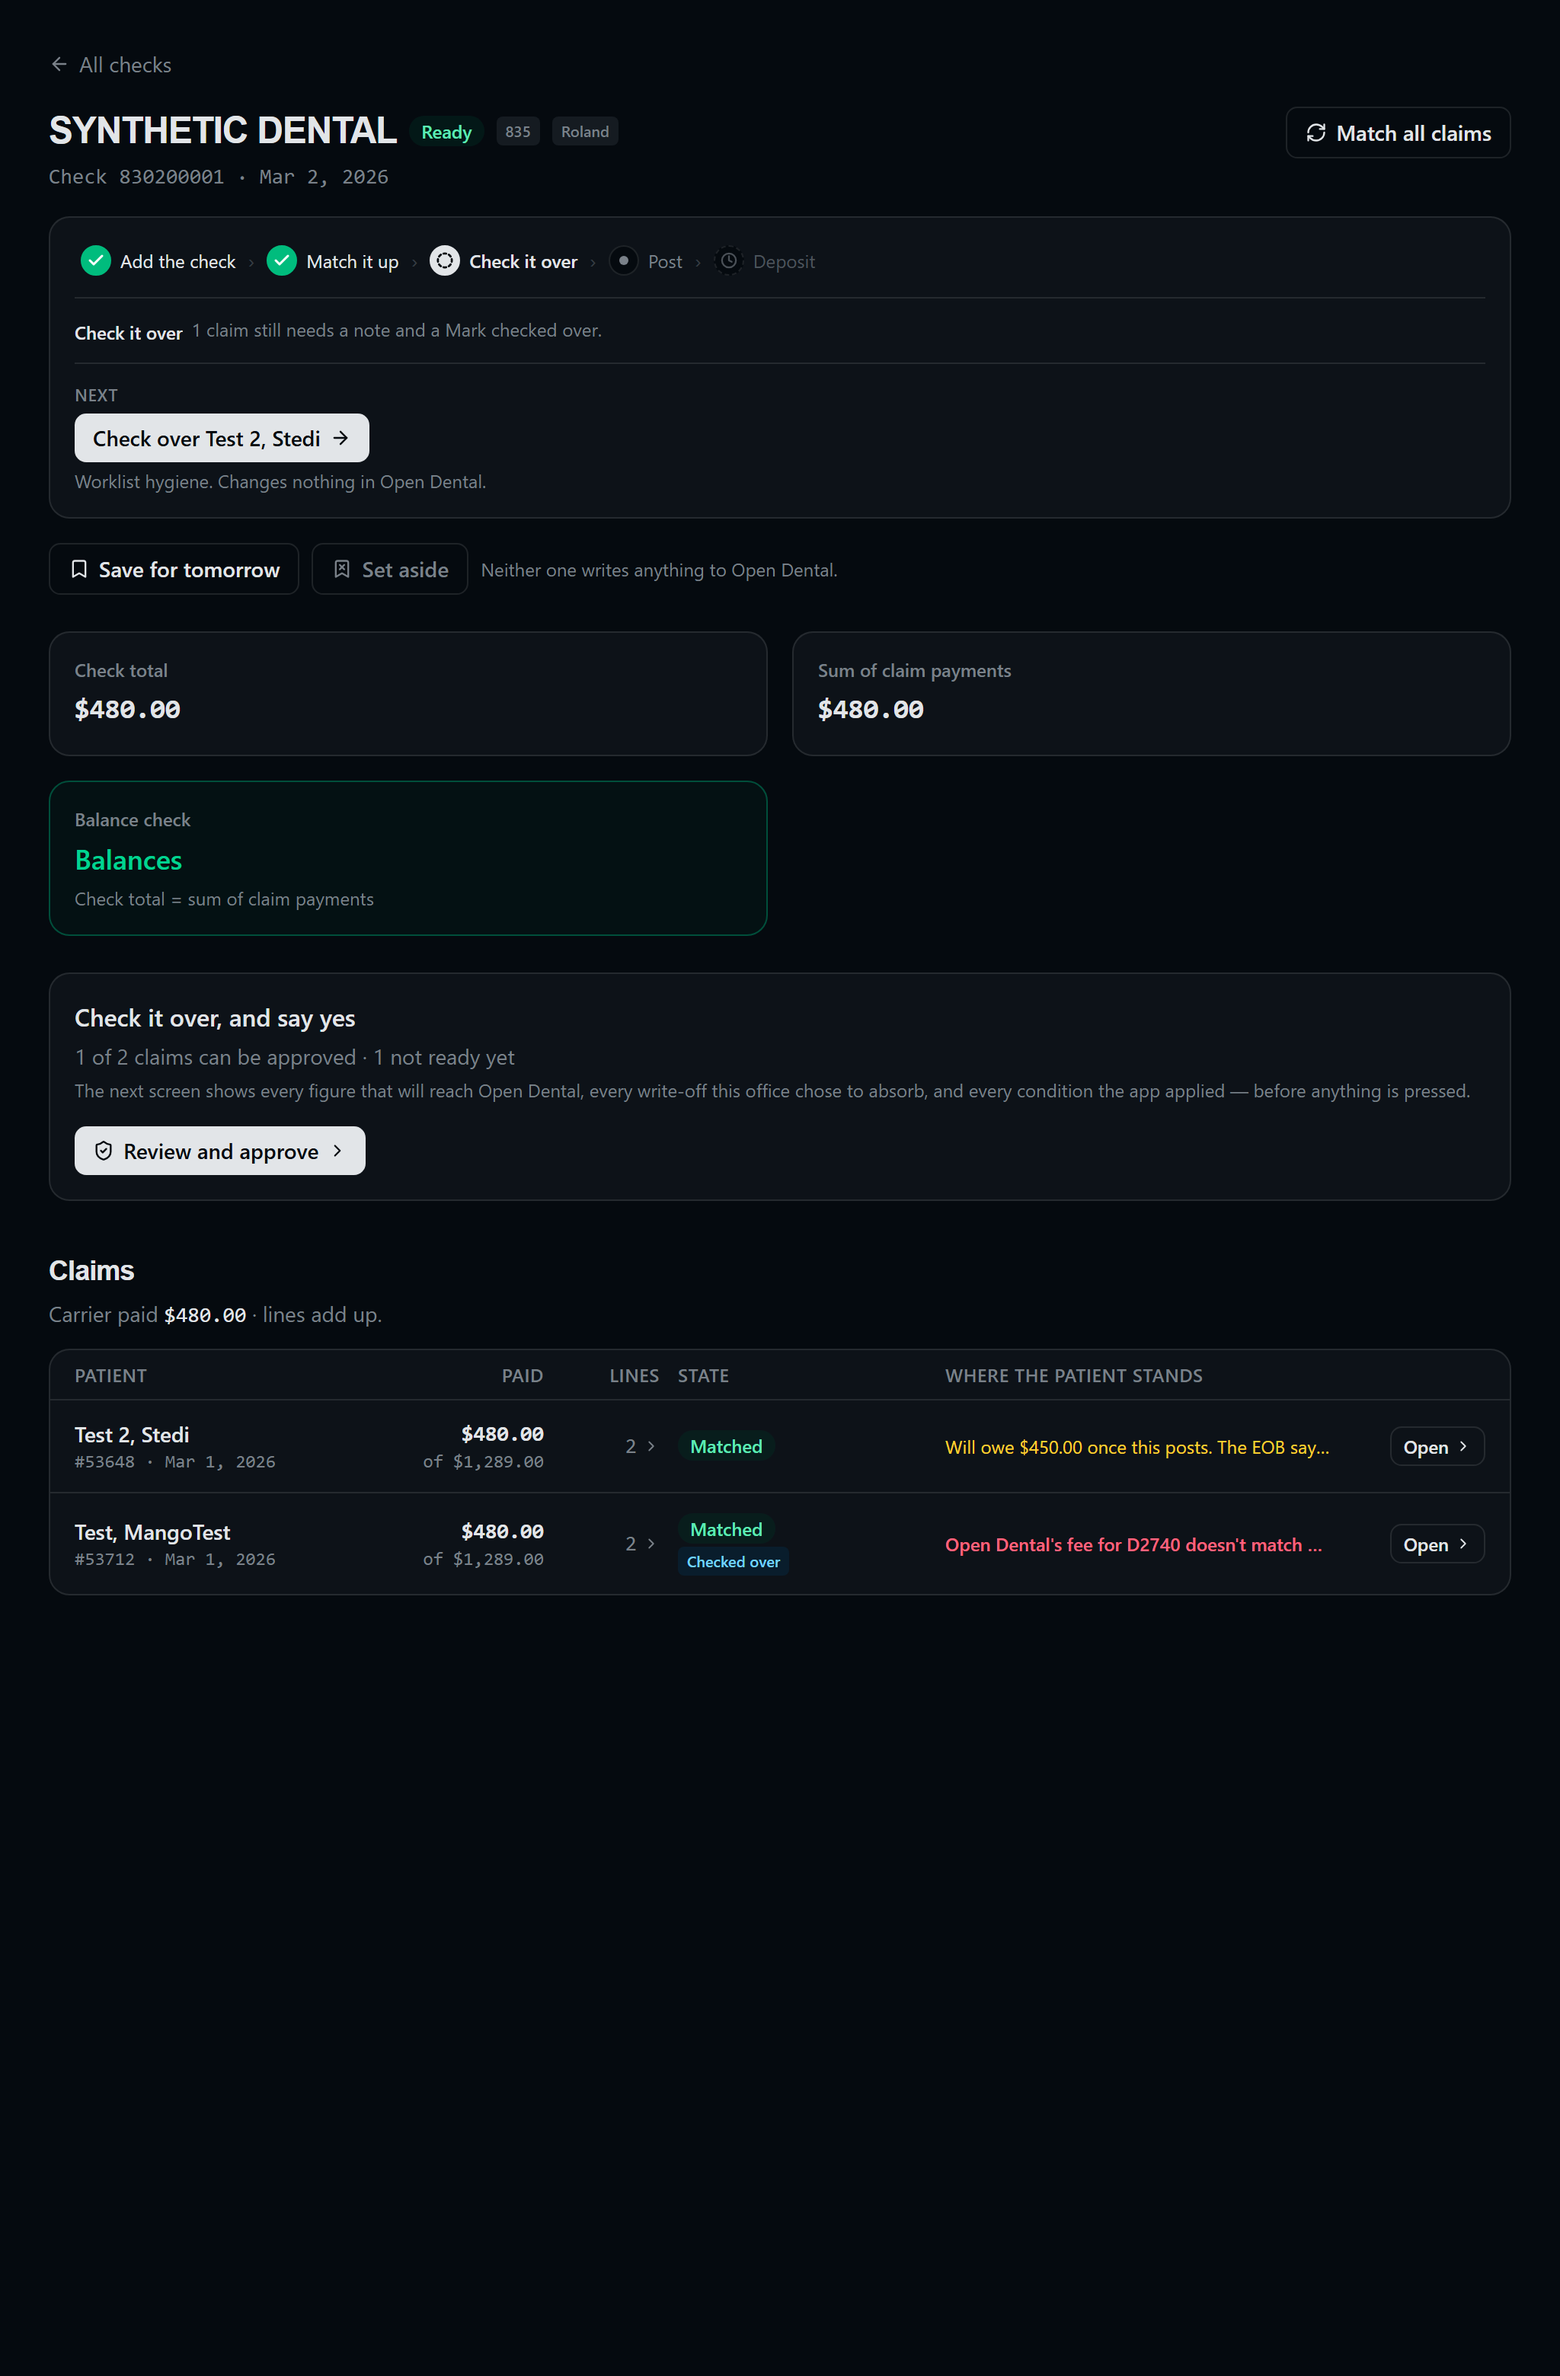
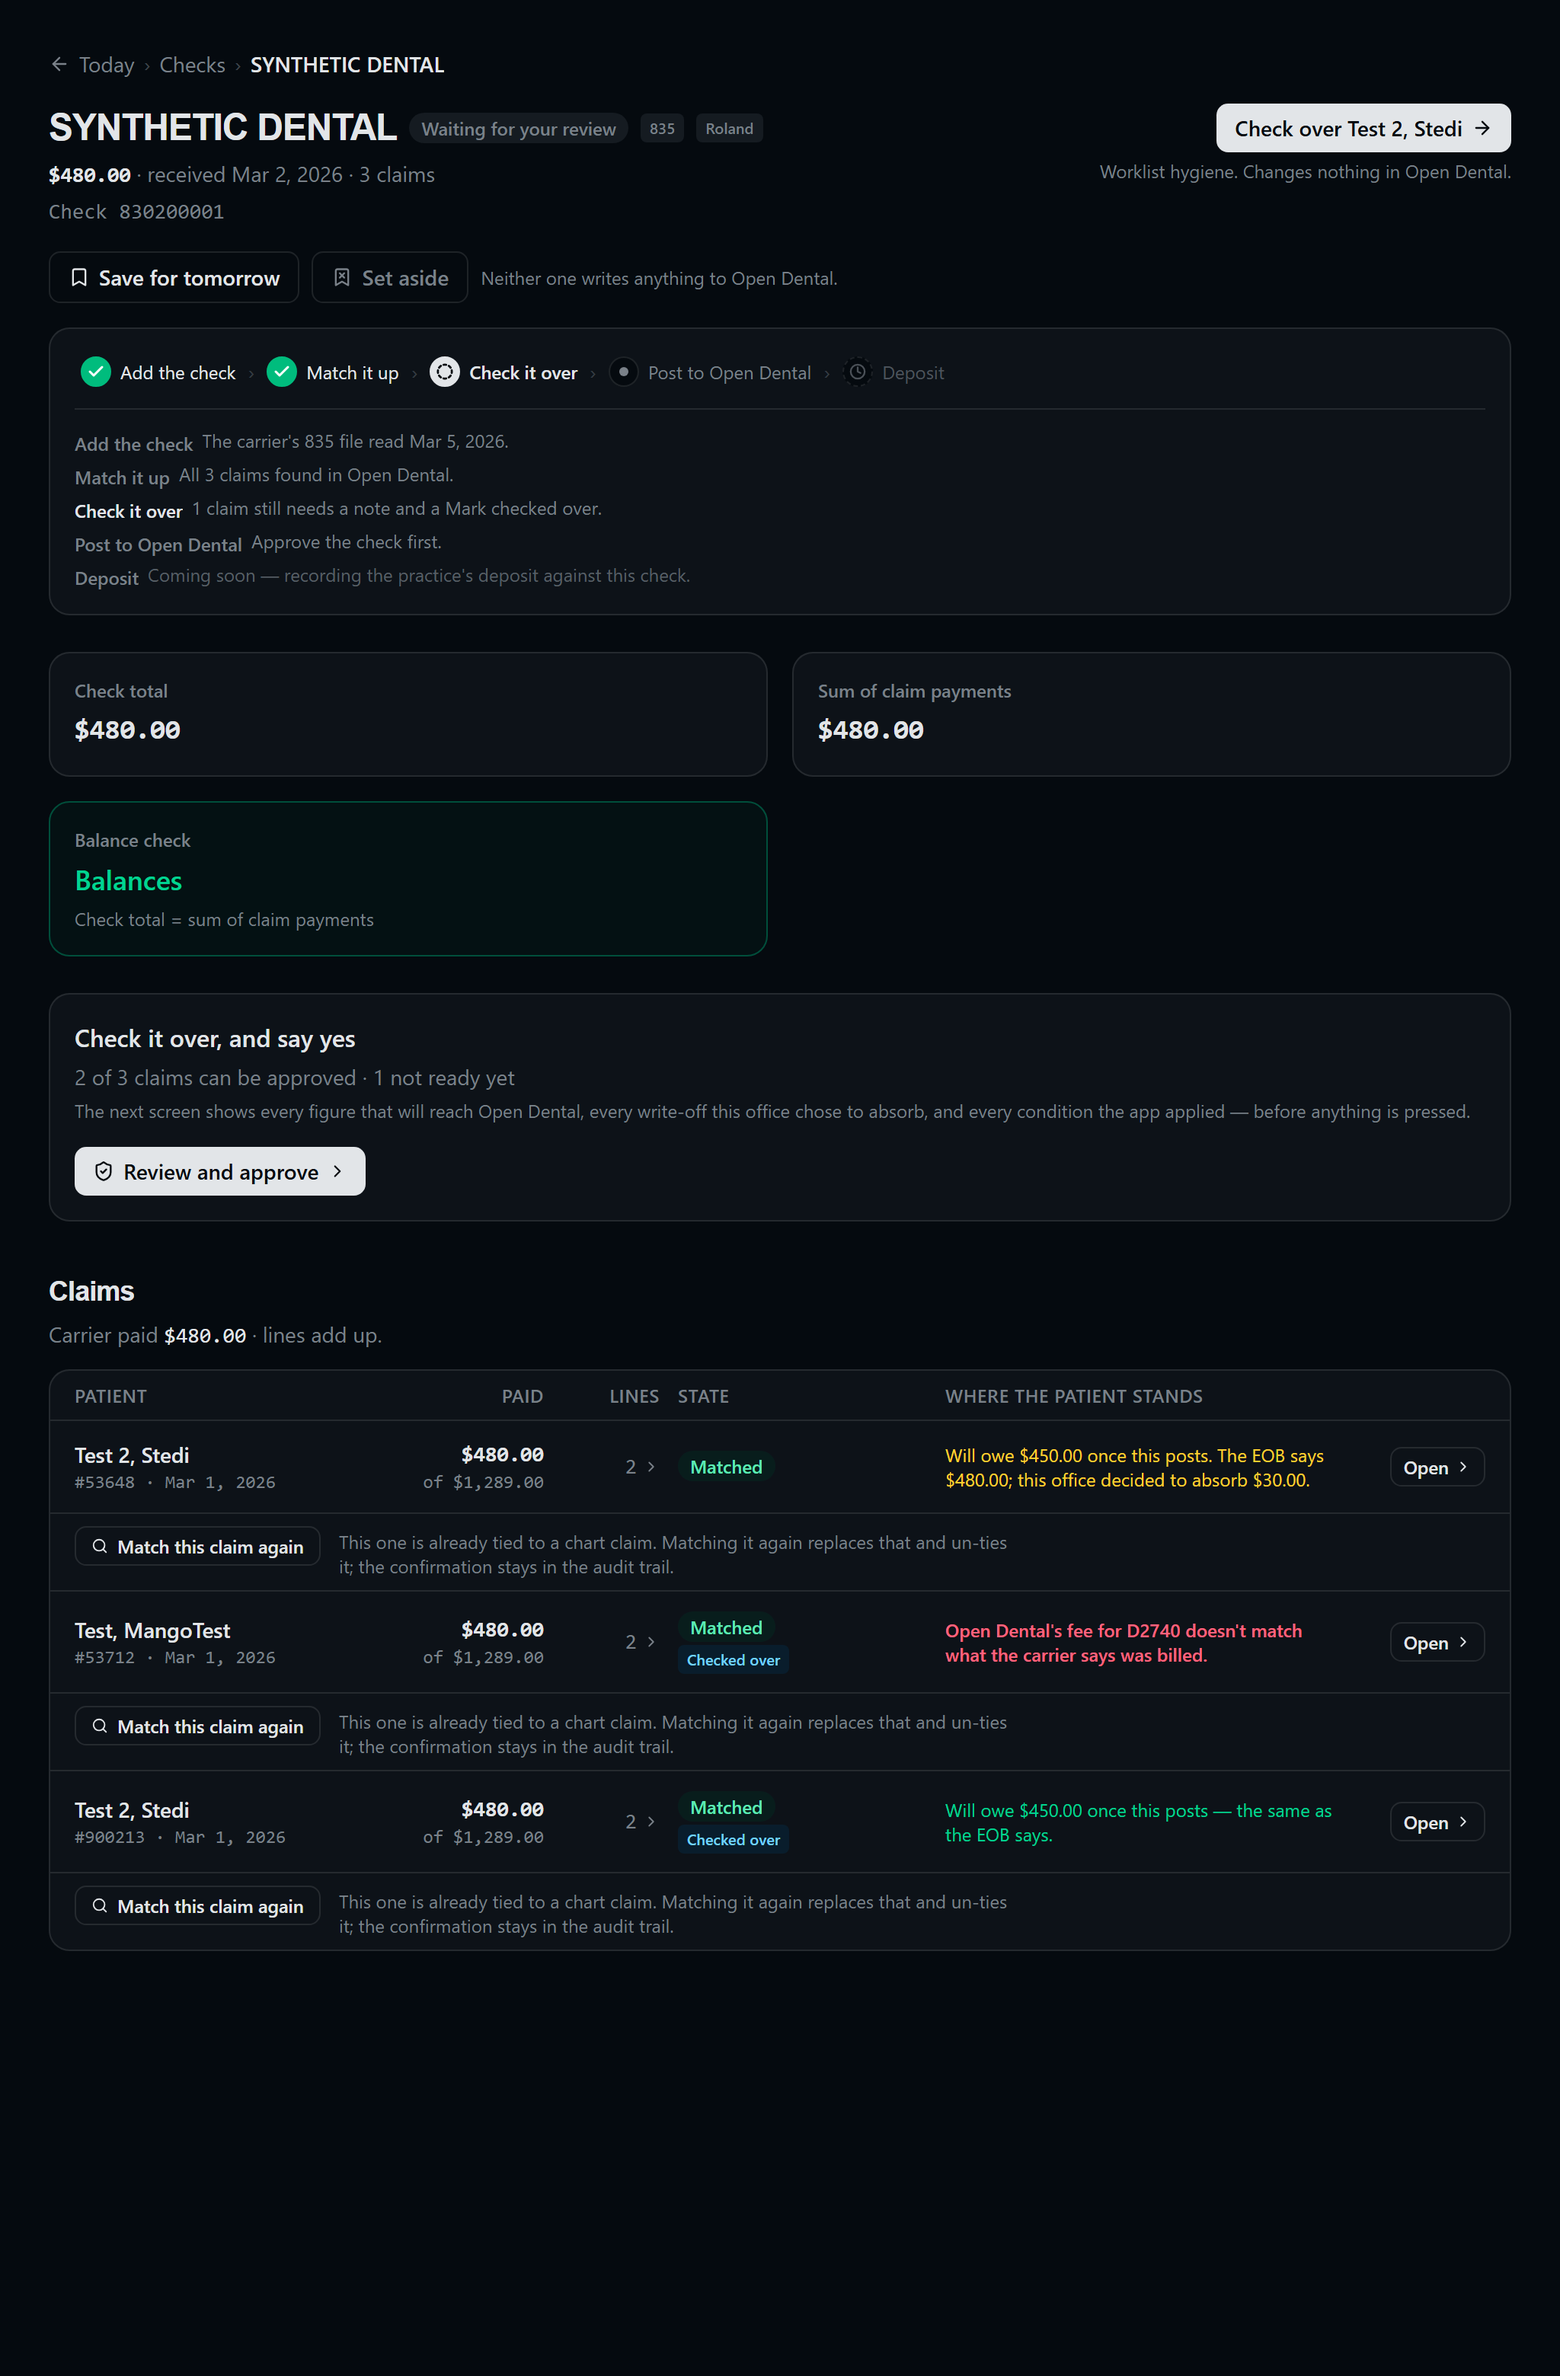
Colour a matching claim's miniature in the verdict's own green
The check page's "Where the patient stands" column rendered a red verdict
rose and an amber one amber, but a green one in the quiet muted tone. The
design board reserves green/amber/red for the verdict and states, and a
matching claim is a verdict, so it now carries the banners' green
(text-emerald-700 / dark:text-emerald-400, as the page's own rail does).
Amber stays amber; an unjudged row stays muted.

Smoke 1.14 pins green and amber by class, and 1.4 pins the unjudged row
quiet. The stagec-04 triage shot gains a green claim so all three tones
are in one picture, re-shot at both widths and themes.

diff --git a/new-dashboard/tests/rcm-smoke.test.tsx b/new-dashboard/tests/rcm-smoke.test.tsx
@@ -61,6 +61,11 @@
  * stays; the amount goes. `PostThisCheck.tsx` now renders the number and an
  * explicit sentence, no amount. Flow 3 asserts both halves.
  *
+ * PR #171 round 1 added three more, each pinned here: the same ruling for a
+ * `blocked` re-press (3.9), the practice's name in the Post reason rather than
+ * its key (1.17 and sweep e), and the matching miniature in the verdict's green
+ * (1.14).
+ *
  * ─────────────────────────────────────────────────────────────────────────────
  * RUN A FLOW WHOLE
  * ─────────────────────────────────────────────────────────────────────────────
@@ -1680,10 +1685,14 @@ describe("1 · enter a check, the whole road", () => {
     expect(screen.getByTestId("rcm-cta").textContent).toContain("Match it up");
     expect(within(rail).queryByTestId("rcm-cta")).toBeNull();
 
-    // The miniature says NOT JUDGED rather than guessing at an unmatched claim.
+    // The miniature says NOT JUDGED rather than guessing at an unmatched claim —
+    // and an untouched row stays quiet: no verdict, so none of the verdict tones.
     await waitFor(() =>
       expect(screen.getByTestId(`claim-stands-${C1}`).textContent).toContain("Not judged yet"),
     );
+    const untouched = screen.getByTestId(`claim-stands-${C1}`).querySelector("span")?.className ?? "";
+    expect(untouched).toContain("text-muted-foreground");
+    expect(untouched).not.toMatch(/emerald|amber|rose/);
     sweep(container);
   });
 
@@ -1840,12 +1849,16 @@ describe("1 · enter a check, the whole road", () => {
     await waitFor(() =>
       expect(screen.getByTestId(`claim-stands-${C1}`).textContent).toBe("Will owe $450.00 — matches the EOB."),
     );
-    // The tone is read off the same verdict as the sentence: a matching claim is
-    // quiet — never a warning colour — and an amber one is amber.
+    // The tone is read off the same verdict as the sentence, in the verdict
+    // banners' own colours: a matching claim is GREEN (a verdict, not a quiet
+    // row — PR #171 round 1), and an amber one is amber.
     const greenTone = screen.getByTestId(`claim-stands-${C1}`).querySelector("span")?.className ?? "";
-    expect(greenTone).not.toMatch(/rose|amber/);
+    expect(greenTone).toContain("text-emerald-700");
+    expect(greenTone).not.toMatch(/rose|amber|muted/);
     expect(screen.getByTestId(`claim-stands-${C2}`).textContent).toBe(AMBER_SENTENCE);
-    expect(screen.getByTestId(`claim-stands-${C2}`).querySelector("span")?.className).toMatch(/amber/);
+    const amberTone = screen.getByTestId(`claim-stands-${C2}`).querySelector("span")?.className ?? "";
+    expect(amberTone).toContain("text-amber-800");
+    expect(amberTone).not.toMatch(/emerald|rose|muted/);
     expectWraps(screen.getByTestId(`claim-stands-${C2}`), `claim-card-${C2}`);
     expect(screen.getByTestId("step-note-review").textContent).toContain(
       "All 2 claims checked over. Nothing has been approved yet.",

diff --git a/new-dashboard/tests/rcm-stage-c-shots.test.tsx b/new-dashboard/tests/rcm-stage-c-shots.test.tsx
@@ -722,18 +722,25 @@ describe.skipIf(!enabled)("Stage C screenshots", () => {
   });
 
   it("stagec-04-check-triage — where the patient stands, per claim", async () => {
-    state.checks = [check()];
+    // All three verdict tones in one table (PR #171 round 1): the matching
+    // claim's miniature is green, as the verdict banners are.
+    state.checks = [check({ claimCount: 3 })];
     state.claims = [
       claim(),
       claim({ claimId: "c-2", claimNumber: "53712", patientName: "Test, MangoTest", reviewedAt: "2026-03-05T16:00:00.000Z" }),
+      claim({ claimId: "c-3", claimNumber: "900213", reviewedAt: "2026-03-05T16:05:00.000Z" }),
     ];
     state.approval = {
       office: "roland",
       batchId: "b-1",
       canApprove: true,
       approveRequires: "rcm.write",
-      claims: [approvalClaim(), approvalClaim({ claimId: "c-2", claimNumber: "53712", patientName: "Test, MangoTest", verdict: RED, postable: false })],
-      postableCount: 1,
+      claims: [
+        approvalClaim(),
+        approvalClaim({ claimId: "c-2", claimNumber: "53712", patientName: "Test, MangoTest", verdict: RED, postable: false }),
+        approvalClaim({ claimId: "c-3", claimNumber: "900213", verdict: GREEN }),
+      ],
+      postableCount: 2,
       withheldCount: 1,
       queuedCount: 0,
       balanced: true,

diff --git a/new-dashboard/client/src/pages/rcm/RemittanceDetail.tsx b/new-dashboard/client/src/pages/rcm/RemittanceDetail.tsx
@@ -1365,14 +1365,17 @@ function ClaimTriageRow({
         <div className="min-w-0" data-testid={`claim-stands-${claim.claimId}`}>
           {verdict ? (
             /* Wraps, never truncates — see the header. The `title` went with
-               the clipping it existed to compensate for. */
+               the clipping it existed to compensate for.
+               All three states carry the verdict banners' own tones: green,
+               amber and red are reserved for the verdict and states, and a
+               matching claim IS a verdict. Only the unjudged row stays quiet. */
             <span
               className={`block break-words text-xs ${
                 verdict.state === "red"
                   ? "font-medium text-rose-700 dark:text-rose-400"
                   : verdict.state === "amber"
                     ? "text-amber-800 dark:text-amber-300"
-                    : "text-muted-foreground"
+                    : "text-emerald-700 dark:text-emerald-400"
               }`}
             >
               {verdict.sentence}

diff --git a/docs/RCM_UI_WALKTHROUGH.md b/docs/RCM_UI_WALKTHROUGH.md
@@ -145,7 +145,13 @@ Now press **Save for tomorrow** at the top of the claim, and go back to **Today*
   more after." — and one button: **Pick up where you left off**. It takes you
   straight to that claim.
 
-Match and check over the rest of R1's claims the same way.
+Match and check over the rest of R1's claims the same way, then go back to R1's page.
+
+**What you should see**
+- In the claims table, **Where the patient stands** repeats each claim's banner
+  sentence in the banner's own colour: a claim that matches the EOB is **green**,
+  an amber claim is amber, a red one red. A claim not matched yet reads
+  "Not judged yet" in plain grey.
 
 ### 8. The office write-off — an amber claim (R2)
 
